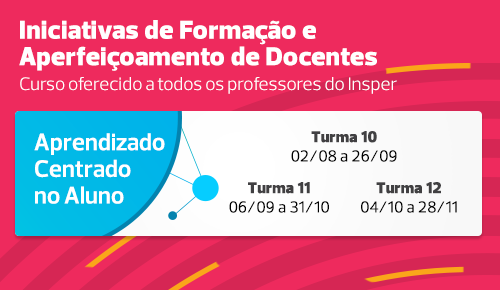
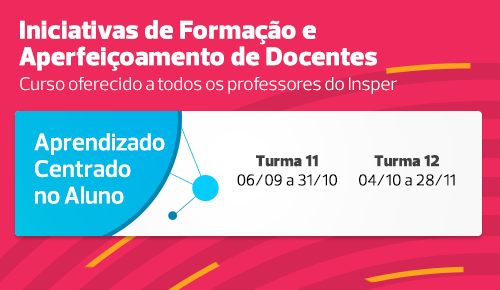
del turma 10 ACA

Changed region(s): [[0.45, 0.4345, 0.93, 0.7448]]

diff --git a/calendario-formacao-docentes/slider-calendario/modulo-blackboard.html b/calendario-formacao-docentes/slider-calendario/modulo-blackboard.html
@@ -26,7 +26,7 @@
 			<div class="carousel-inner" role="listbox">
 			    <div class="item active">
 			    <!-- geral: ACA -->
-			      <a href="https://insper.blackboard.com/bbcswebdav/xid-1183687_4" title="Aprendizado Centrado no Aluno - novas turmas" target="_blank"><img src="https://insper.blackboard.com/bbcswebdav/xid-1303870_4" alt="Aprendizado Centrado no Aluno - novas turmas"></a>
+			      <a href="https://insper.blackboard.com/bbcswebdav/institution/DEA/calendario-formacao-docentes/geral/aprendizado-centrado-aluno-turma11.html" title="Aprendizado Centrado no Aluno - novas turmas" target="_blank"><img src="https://insper.blackboard.com/bbcswebdav/xid-1303870_4" alt="Aprendizado Centrado no Aluno - novas turmas"></a>
 			    </div>
 				<!-- graduacao: iniciativas 
 			    <div class="item">
